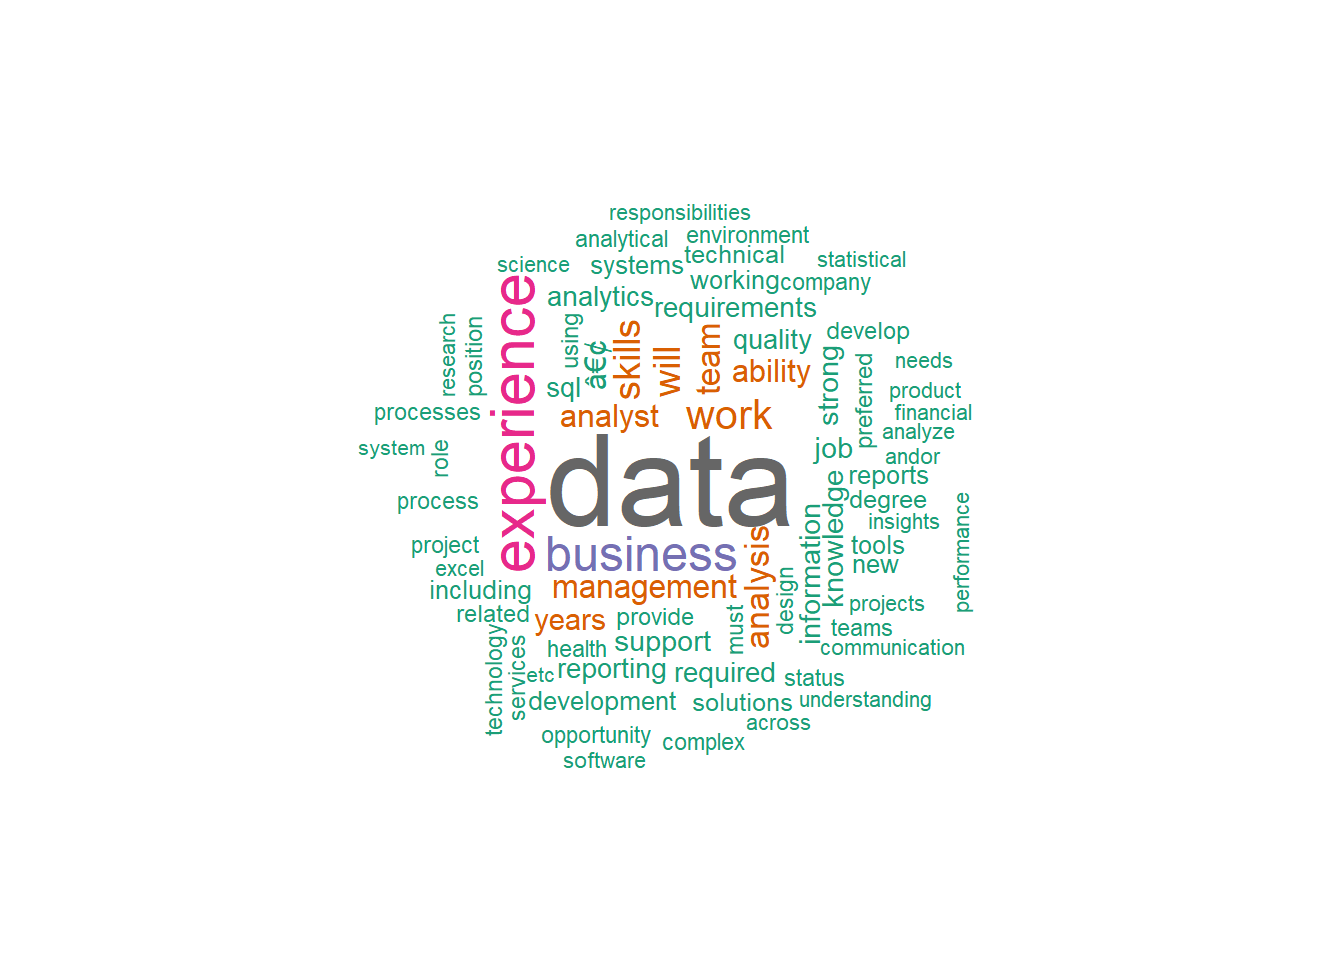
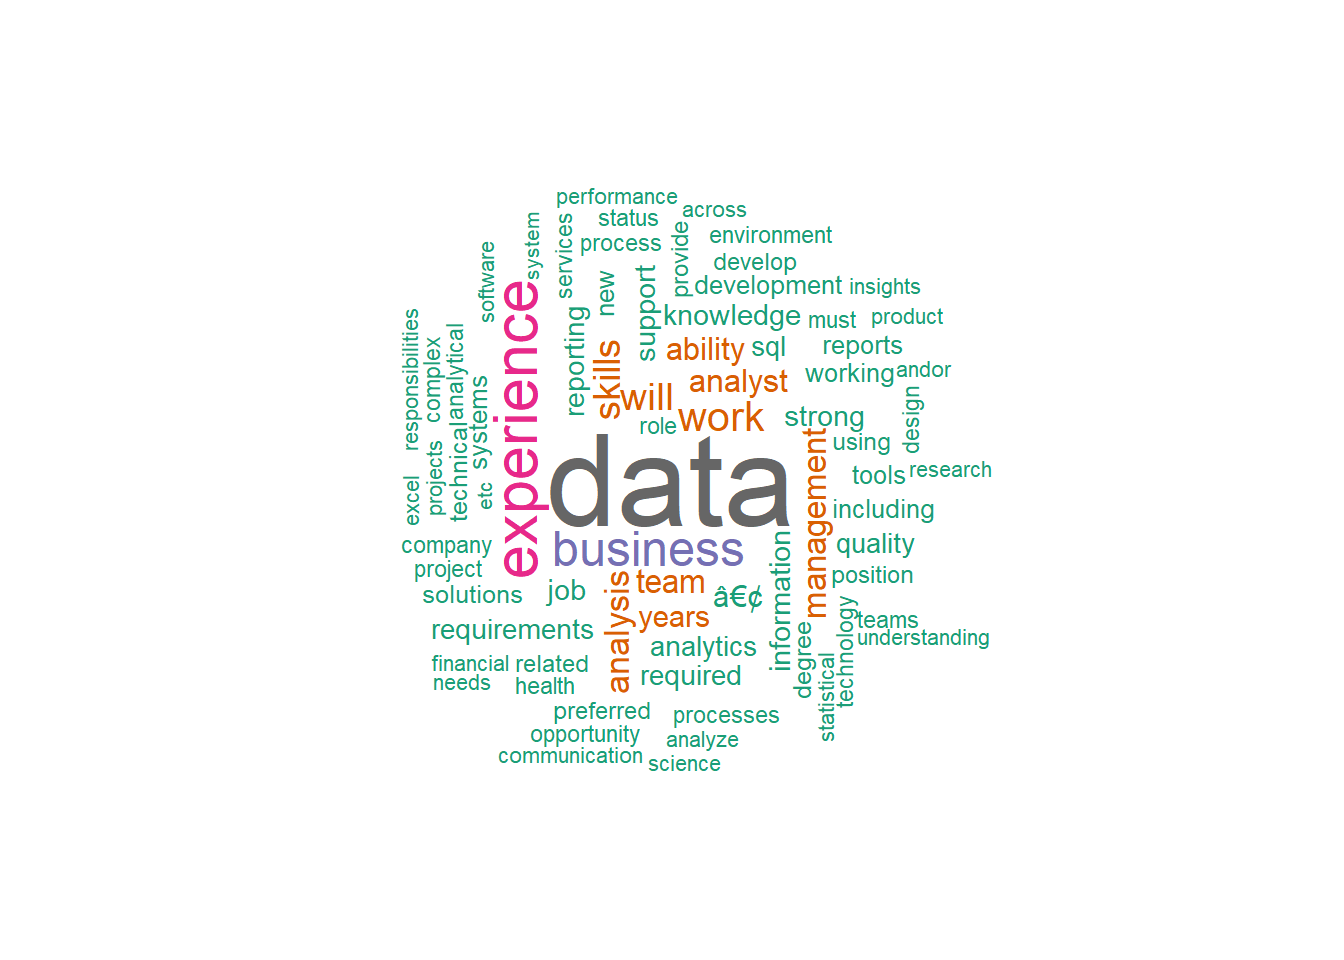
word cloud code

Changed region(s): [[0.2812, 0.1875, 0.75, 0.8125]]

diff --git a/glassdoor_analysis.html b/glassdoor_analysis.html
@@ -1614,6 +1614,9 @@ subs_sums &lt;- as.data.table(subs_sums)
 
 head &lt;- subs_sums[1:75,]
 head &lt;- as.data.frame(head)</code></pre>
+<pre class="r"><code>wordcloud(words = head$term, freq = head$count, min.freq = 1000,
+          max.words=100, random.order=FALSE, rot.per=0.35, 
+          colors=brewer.pal(8, &quot;Dark2&quot;))</code></pre>
 <p><img src="glassdoor_analysis_files/figure-html/unnamed-chunk-23-1.png" width="672" />  </p>
 </div>
 <div id="sentiment-analysis" class="section level3">
